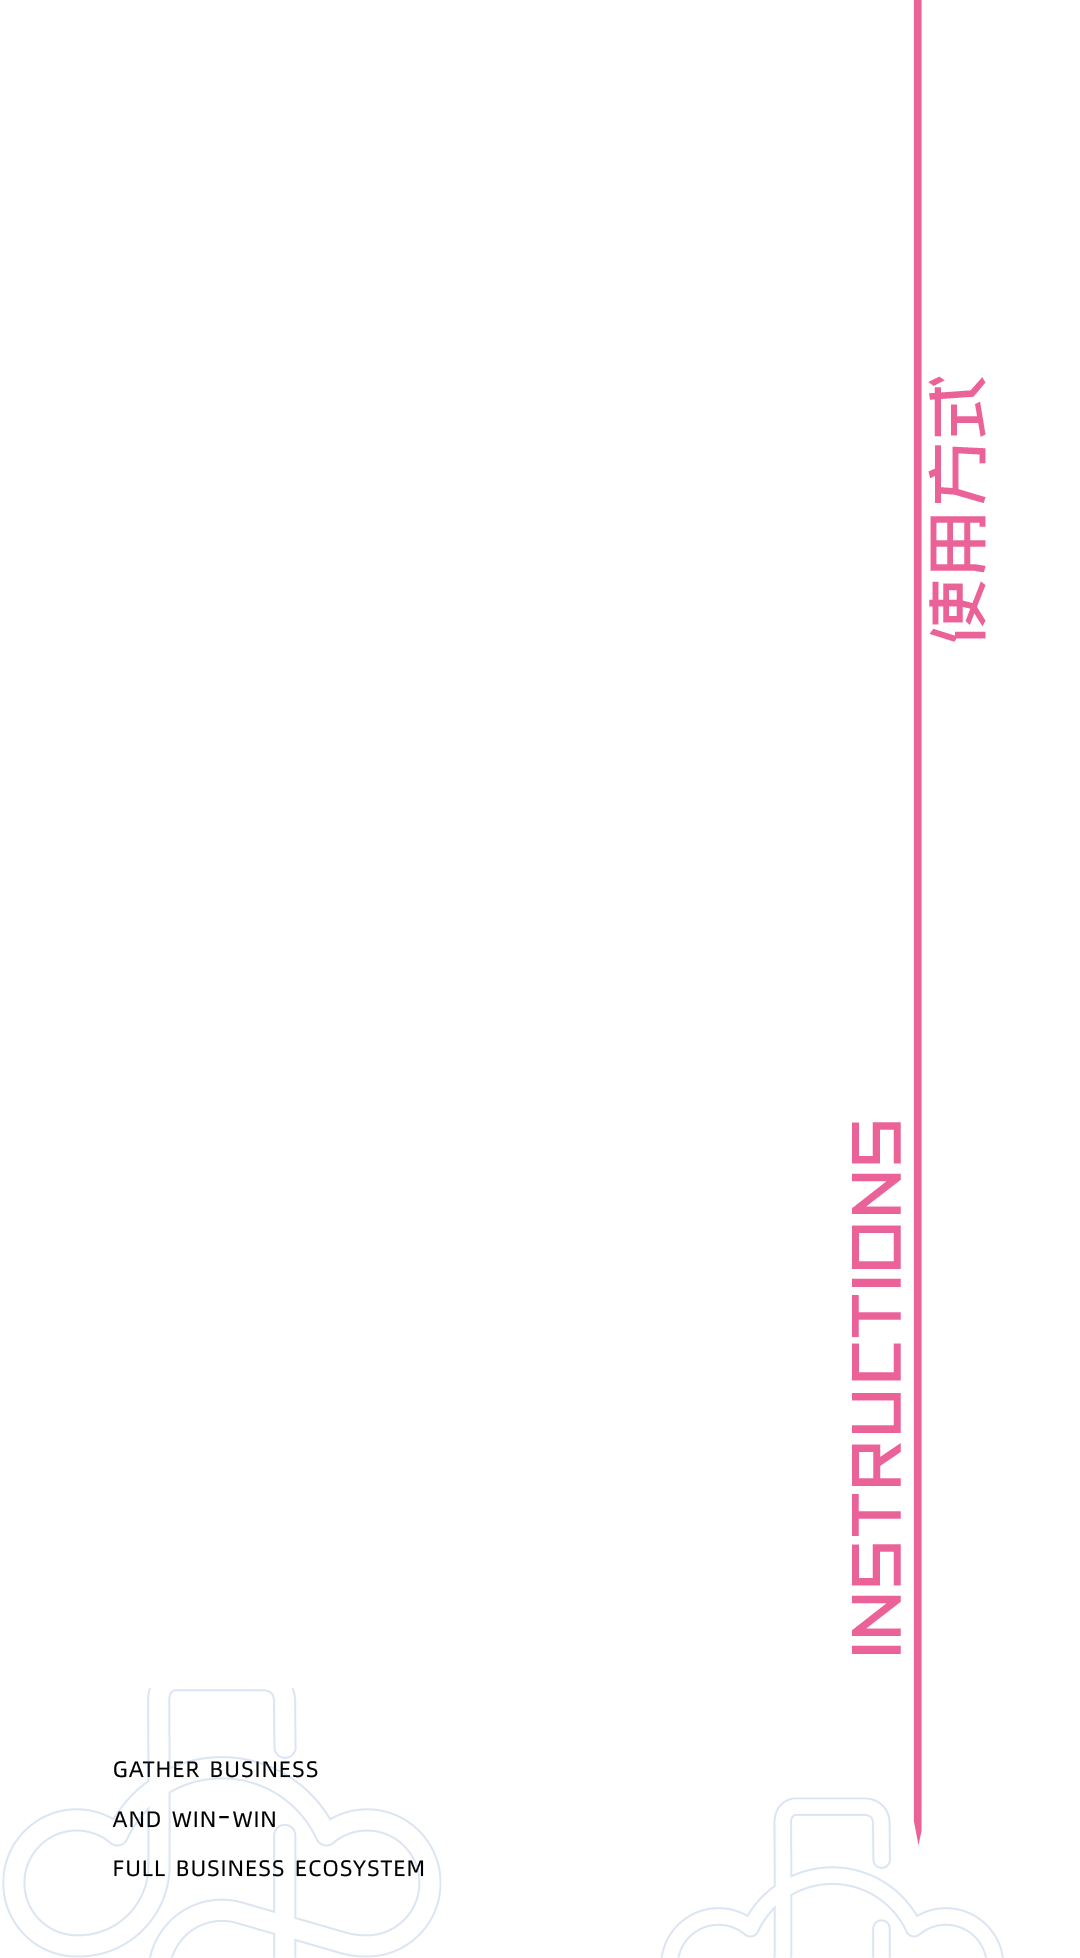
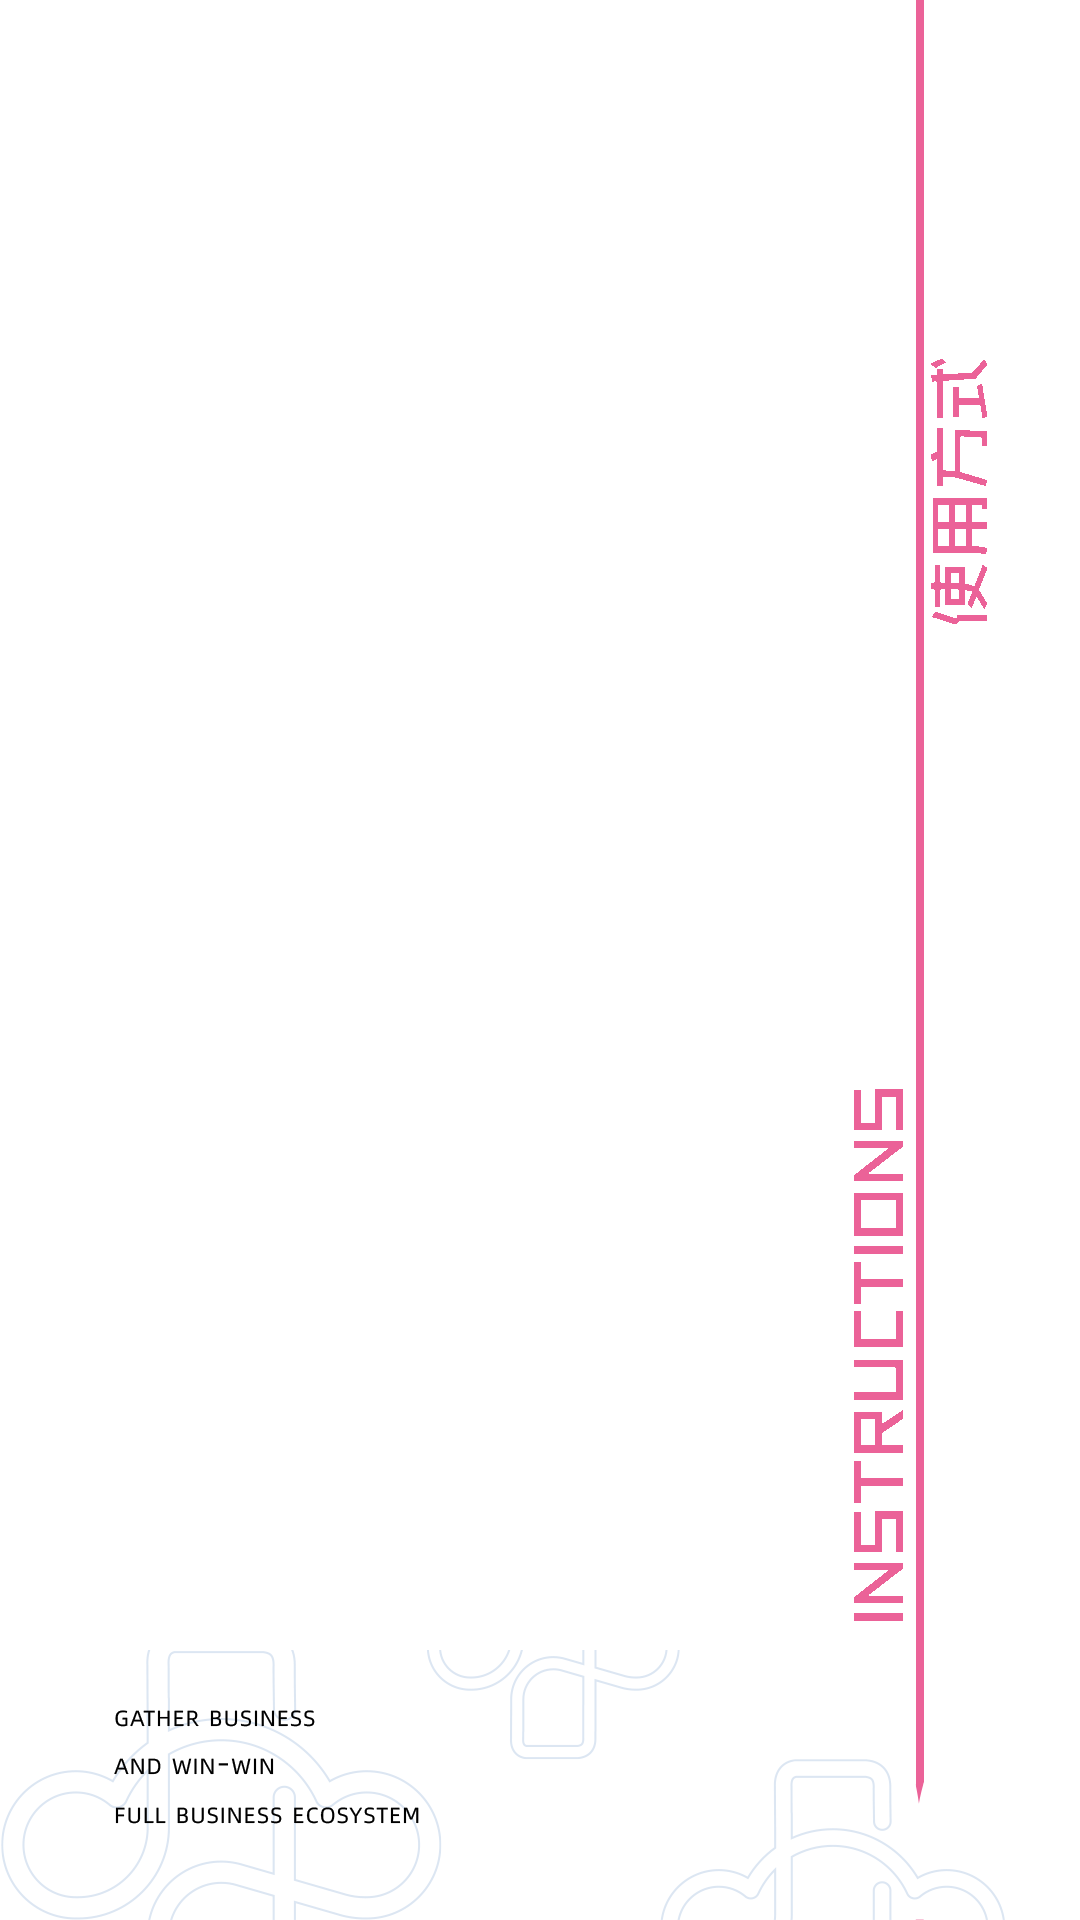
all

Changed region(s): [[0.7639, 0.0, 0.9167, 0.9375], [0.0917, 0.875, 0.3972, 0.9688], [0.4583, 0.875, 0.4889, 0.9062]]

diff --git a/src/pages/index/index.jsx b/src/pages/index/index.jsx
@@ -9,6 +9,9 @@ import main from '../../assets/main.png';
 import topimg from '../../assets/topimg.png';
 import textimg from '../../assets/textimg.png';
 import button2 from '../../assets/button2.png';
+import turnw from '../../assets/turnw.png';
+import returnw from '../../assets/returnw.png';
+import turnb from '../../assets/turnb.png';
 import returnb from '../../assets/returnb.png';
 import topimg4 from '../../assets/topimg4.png';
 import txt3 from '../../assets/txt3.png';
@@ -67,9 +70,9 @@ class Index extends React.PureComponent {
     this.showInterduce(false)
     $("#flipbook").turn("next");
   }
-  returnBack=()=>{
+  lastpage=()=>{
     this.showInterduce(false)
-    $("#flipbook").turn("next");
+    $("#flipbook").turn("previous");
   }
   showInterduce=(show)=>{
     this.setState({
@@ -104,6 +107,8 @@ class Index extends React.PureComponent {
         <div className={styles.introduce}>
           <div className={styles[shownum]}>
             <img className={styles.topimg} src={topimg} alt=""/>
+            <img className={styles.turnw+" "+styles.turn} src={turnw} onClick={e=>this.lastpage()} alt=""/>
+            <img className={styles.returnw} src={returnw} onClick={e=>this.lastpage()} alt=""/>
             <div className={styles.textBox}>
               {showInterduce?
                 <div className={styles.lefttxt}>
@@ -124,7 +129,8 @@ class Index extends React.PureComponent {
           <div>
             <div className={styles.textBox}>
               <div className={styles.lefttxt}>
-                <img className={styles.returny} onClick={e=>this.returnBack()} src={returnb} alt=""/>
+                <img className={styles.turnb + " " + styles.turn} onClick={e=>this.lastpage()} src={turnb} alt=""/>
+                <img className={styles.returny} onClick={e=>this.lastpage()} src={returnb} alt=""/>
                 <img className={styles.topimg4} src={topimg4} alt=""/>
                 <div className={styles.itembtnimg}>
                   <Link to="/project"><img src={bj} alt=""/></Link>

diff --git a/src/pages/index/index.less b/src/pages/index/index.less
@@ -57,6 +57,18 @@
     .topimg{
       width: 100vw;
     }
+    .turnw{
+      position: absolute;
+      top: 4.16vh;
+      left: 2.77vw;
+      width: 7.77vw;
+    }
+    .returnw{
+      position: absolute;
+      top: 5.41vh;
+      left: 4.72vw;
+      width: 3.88vw;
+    }
     .textBox{
       width: 100%;
       height: 100%;
@@ -104,7 +116,7 @@
     }
     .slip{
       position: absolute;
-      right: 10.66vw;
+      right: 6.11vw;
       bottom: 2.5vh;
       width: 6.48vw;
     }
@@ -172,10 +184,21 @@
       background-size: 100% 100%;
     }
     .textBox{
+      position: relative;
       .lefttxt{
+        padding-top: 10.11vh;
+        padding-left: 7.12vw;
+        .turnb{
+          position: absolute;
+          top: 3.82vh;
+          left: 2.77vw;
+          width: 7.77vw;
+        }
         .returny{
-          width: 4.62vw;
-          margin-bottom: 3.9vh;
+          position: absolute;
+          top: 5.05vh;
+          left: 4.72vw;
+          width: 3.88vw;
         }
         .topimg4{
           width: 67.31vw;
@@ -184,11 +207,21 @@
           margin-top: 4.68vh;
           img{
             width: 67.4vw;
-            margin-bottom: 1.5vh;
+            margin-bottom: 2.6vh;
           }
         }
       }
     }
+  }
+  .turn{
+    animation:turn 1.5s linear infinite;
+  }
+  @keyframes turn{
+    0%{-webkit-transform:rotate(0deg);}
+    25%{-webkit-transform:rotate(90deg);}
+    50%{-webkit-transform:rotate(180deg);}
+    75%{-webkit-transform:rotate(270deg);}
+    100%{-webkit-transform:rotate(360deg);}
   }
 }
 @media screen and (min-height: 750px) {

diff --git a/src/pages/project/project.less b/src/pages/project/project.less
@@ -18,8 +18,8 @@
     height: 100%;
     .lefttxt{
       width: 52vw;
-      padding-top: 4.11vh;
-      padding-left: 10.64vw;
+      padding-top: 10.3vh;
+      padding-left: 7.12vw;
       .textimg{
         width: 100%;
       }
@@ -47,15 +47,23 @@
         width: 37.22vw;
         margin-top: 3.54vh;
       }
+      .turnb{
+        position: absolute;
+        top: 3.82vh;
+        left: 2.77vw;
+        width: 7.77vw;
+      }
       .returny{
-        width: 4.62vw;
-        margin-bottom: 3.9vh;
+        position: absolute;
+        top: 5.05vh;
+        left: 4.72vw;
+        width: 3.88vw;
       }
       .topimg4{
         width: 67.31vw;
       }
       .itembtnimg{
-        margin-top: 1.68vh;
+        margin-top: 2.3vh;
         width: 67.4vw;
         div{
           position: relative;
@@ -91,5 +99,15 @@
     position: absolute;
     height: 14.0vh;
     bottom: 0;
+  }
+  .turn{
+    animation:turn 1.5s linear infinite;
+  }
+  @keyframes turn{
+    0%{-webkit-transform:rotate(0deg);}
+    25%{-webkit-transform:rotate(90deg);}
+    50%{-webkit-transform:rotate(180deg);}
+    75%{-webkit-transform:rotate(270deg);}
+    100%{-webkit-transform:rotate(360deg);}
   }
 }

diff --git a/src/pages/project/project.jsx b/src/pages/project/project.jsx
@@ -4,6 +4,7 @@ import { Link } from 'dva/router';
 import styles from './project.less';
 import returnb from '../../assets/returnb.png';
 import topimg4 from '../../assets/topimg4.png';
+import turnb from '../../assets/turnb.png';
 import zhgc from '../../assets/zhgc.png';
 import zhdcgc from '../../assets/zhdcgc.png';
 import anzhgjzx from '../../assets/anzhgjzx.png';
@@ -32,7 +33,10 @@ class Project extends React.PureComponent {
         <div>
           <div className={styles.textBox}>
             <div className={styles.lefttxt}>
-              <Link to={{pathname:'/',state:{page:3}}}><img className={styles.returny} src={returnb} alt=""/></Link>
+              <Link to={{pathname:'/',state:{page:3}}}>
+                <img className={styles.turnb + " " + styles.turn} src={turnb} alt=""/>
+                <img className={styles.returny} src={returnb} alt=""/>
+              </Link>
               <img className={styles.topimg4} src={topimg4} alt=""/>
               <div className={styles.itembtnimg}>
                 <div>

diff --git a/src/pages/detail/detail.jsx b/src/pages/detail/detail.jsx
@@ -2,6 +2,7 @@ import { connect } from 'dva';
 import * as React from 'react';
 import styles from './detail.less';
 import topmain from '../../assets/topmain.png';
+import turnw from '../../assets/turnw.png';
 import returnw from '../../assets/returnw.png';
 import master from '../../assets/master.png';
 import icon from '../../assets/icon.png';
@@ -52,7 +53,10 @@ class Detail extends React.PureComponent {
       <div className={styles.detailBox}>
         <div className={styles.topmainBox}>
           <img className={styles.topmain} src={topmain} alt=""/>
-          <Link to="/project"><img className={styles.returnw} src={returnw} alt=""/></Link>
+          <Link to="/project">
+            <img className={styles.turnw + " " + styles.turn} src={turnw} alt=""/>
+            <img className={styles.returnw} src={returnw} alt=""/>
+          </Link>
         </div>
         <div className={styles.mainBox}>
           <ul>

diff --git a/src/pages/detail/detail.less b/src/pages/detail/detail.less
@@ -8,11 +8,17 @@
       width: 100vw;
       height: auto;
     }
+    .turnw{
+      position: absolute;
+      top: 3.82vh;
+      left: 2.77vw;
+      width: 7.77vw;
+    }
     .returnw{
       position: absolute;
-      top: 4.81vw;
-      left: 2.59vw;
-      width: 5.37vw;
+      top: 5.05vh;
+      left: 4.72vw;
+      width: 3.88vw;
     }
   }
   .mainBox{
@@ -114,5 +120,15 @@
       height: 3.33vh;
       margin-top: 1.56vh;
     }
+  }
+  .turn{
+    animation:turn 1.5s linear infinite;
+  }
+  @keyframes turn{
+    0%{-webkit-transform:rotate(0deg);}
+    25%{-webkit-transform:rotate(90deg);}
+    50%{-webkit-transform:rotate(180deg);}
+    75%{-webkit-transform:rotate(270deg);}
+    100%{-webkit-transform:rotate(360deg);}
   }
 }

diff --git a/src/components/botbox/botbox.less b/src/components/botbox/botbox.less
@@ -22,7 +22,7 @@
   }
   >img{
     position: absolute;
-    right: 10.66vw;
+    right: 6.11vw;
     bottom: 3.64vh;
     width: 6.48vw;
   }
